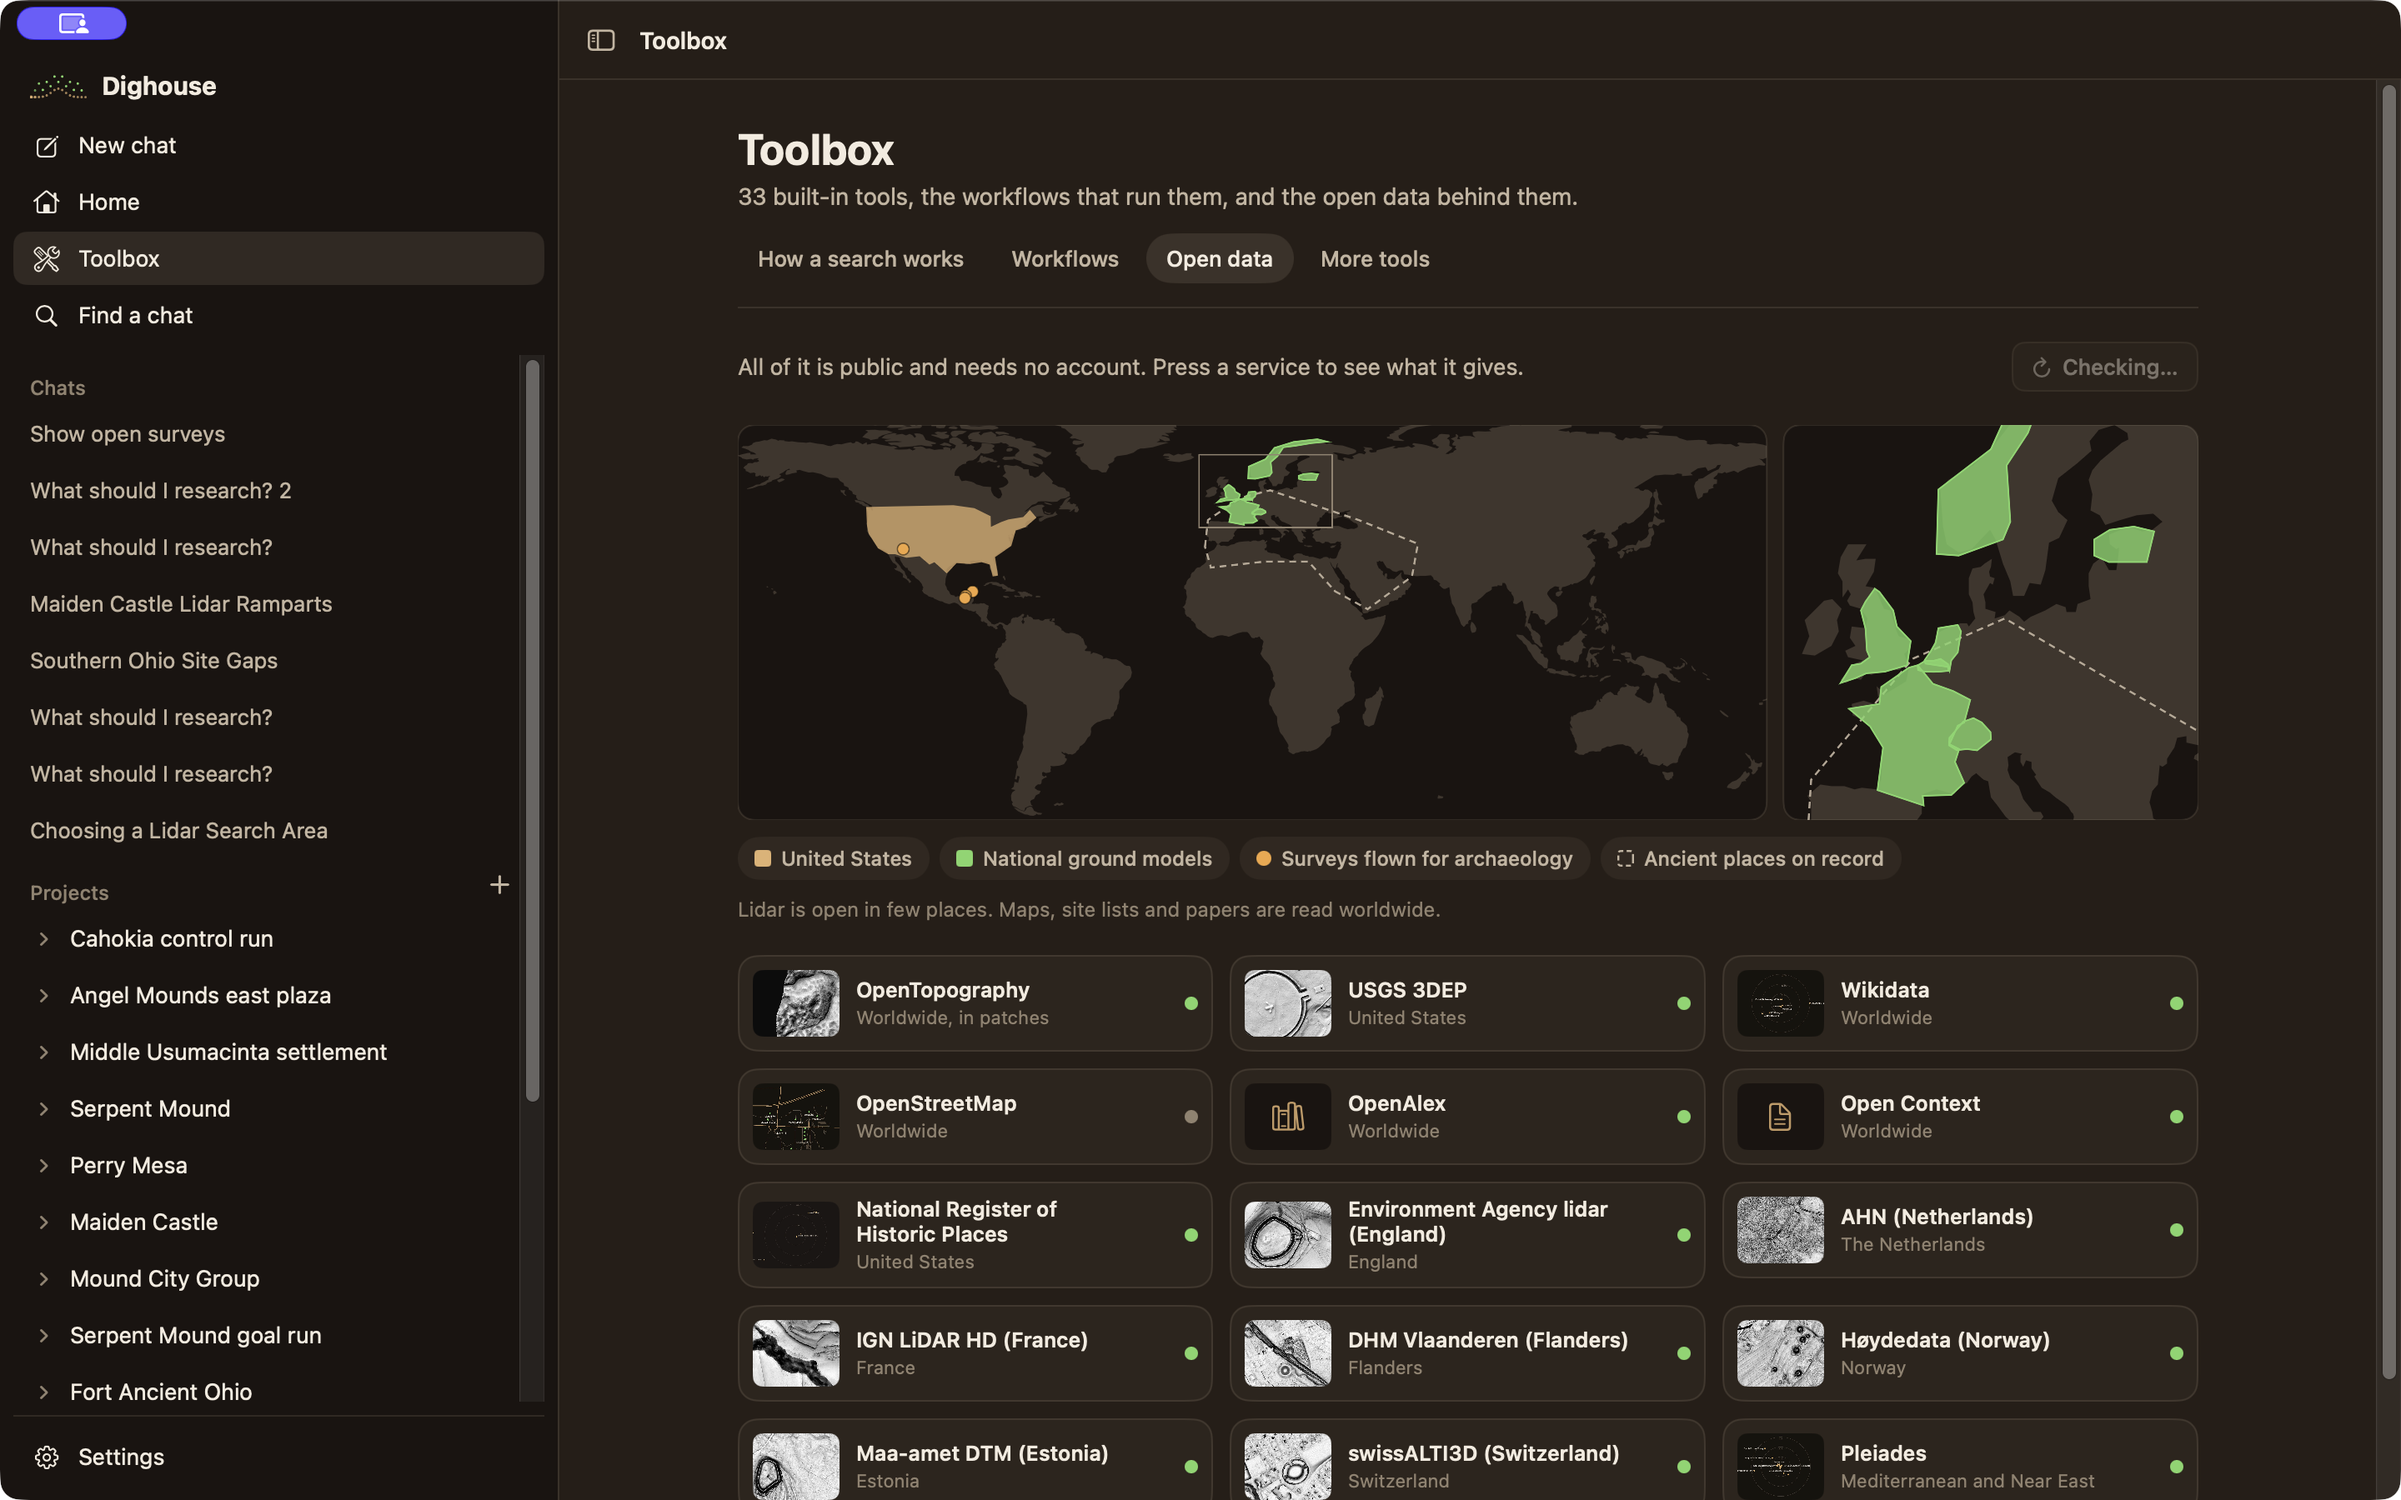
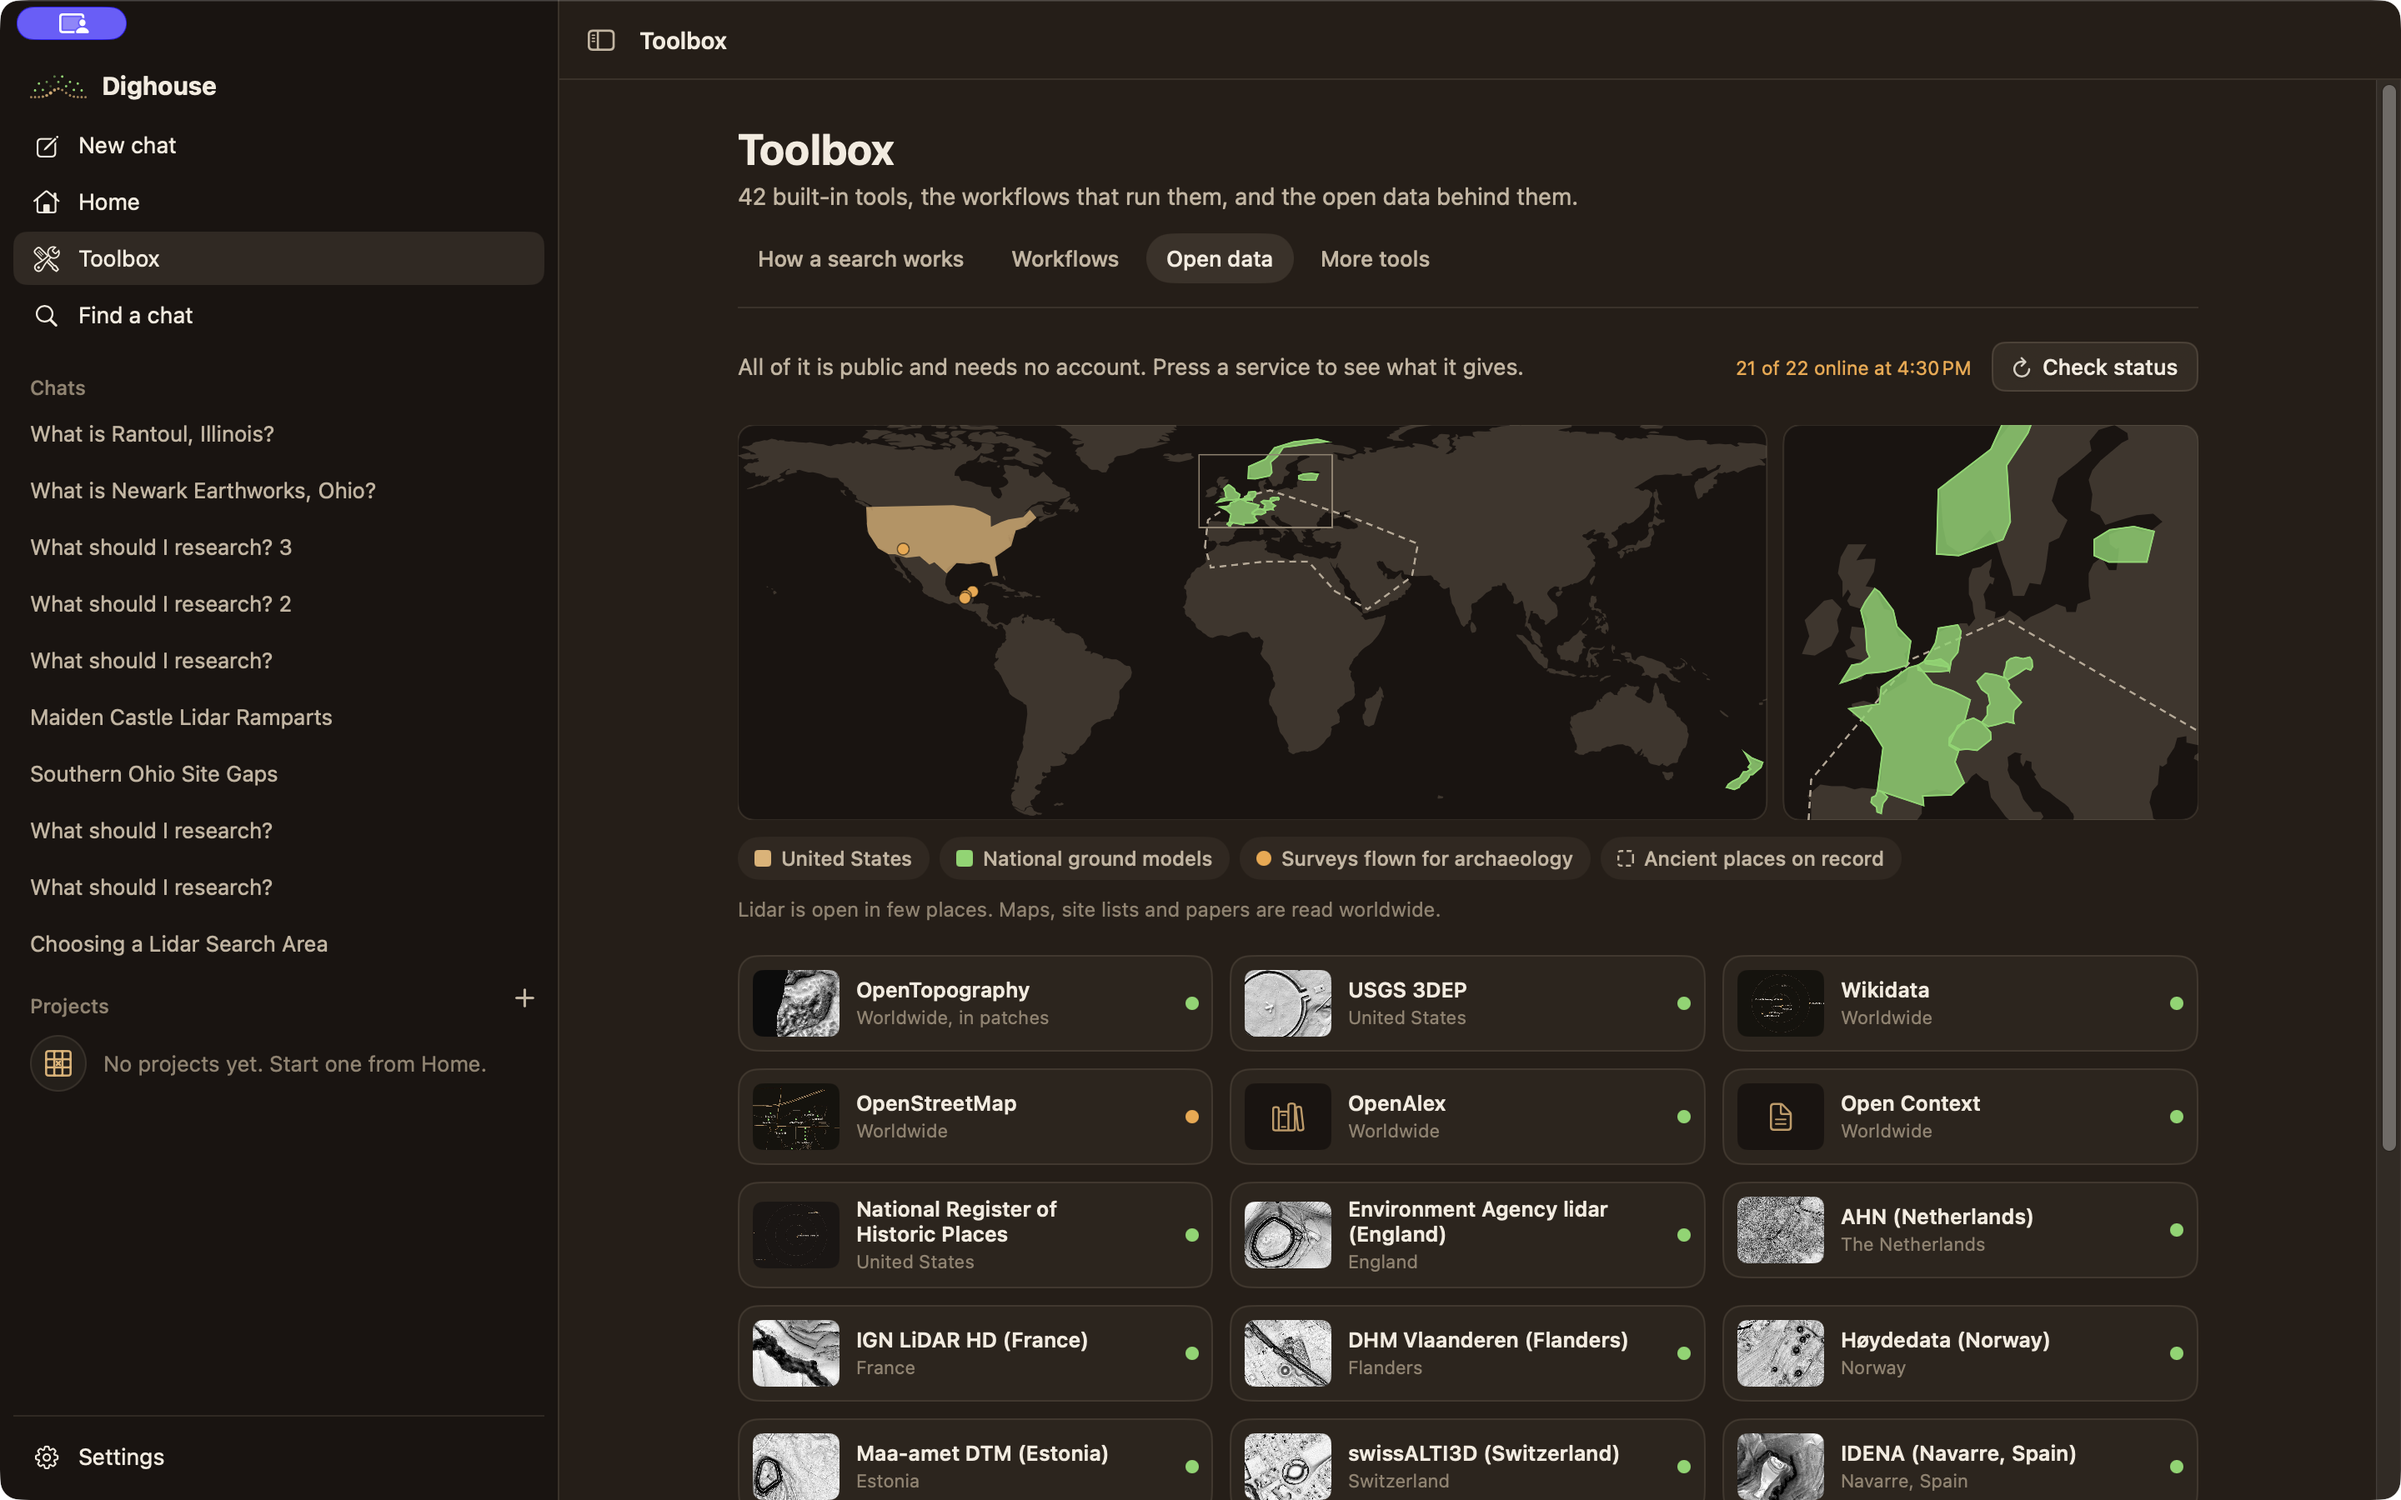
README: retake the Open data picture with the new regions (#51)

diff --git a/README.md b/README.md
@@ -121,7 +121,7 @@ Take the stages one at a time, or press **Find and report back** and the agent c
   </tr>
   <tr>
     <td width="50%"><img src="docs/images/toolbox.png" alt="The Toolbox on the Check stage of a real search at Cahokia: a line dragged across Monks Mound and the slice it cuts drawn beside it"><br><sub><b>Toolbox.</b> One real search at Cahokia in six stages, each a picture to press or drag. Here a line across Monks Mound draws its slice.</sub></td>
-    <td width="50%"><img src="docs/images/open-data.png" alt="The Open data tab: a map of the world showing where open lidar reaches, and a tile for each service with its status"><br><sub><b>Open data.</b> Where each kind of data reaches, and a page for every service the tools read.</sub></td>
+    <td width="50%"><img src="docs/images/open-data.png" alt="The Open data tab: a map of the world showing where open lidar reaches, and a tile for each service with its status"><br><sub><b>Open data.</b> Where each kind of data reaches, from the United States to New Zealand, and a page for every service the tools read. OpenStreetMap was partly online when this was taken.</sub></td>
   </tr>
   <tr>
     <td width="50%"><img src="docs/images/workflows.png" alt="The Workflows tab: three lanes for the agent, a second model and you, with the eight parts of a search in order"><br><sub><b>Workflows.</b> Who does each part of a search, and where the open project stands.</sub></td>

diff --git a/docs/WORLD_LOOP.md b/docs/WORLD_LOOP.md
@@ -233,3 +233,5 @@ The overview gained four enclosures and forts (Oberhaching 2, Lauske 1, Maiden C
 
 
 **Live tests:** `uv run pytest -m live` gives 7 passed and 2 failed on this Mac. The 2 query the Cahokia area, which an unfinished loop-6 blind test (~/dighouse-ui-test/blind-test-2026-11-16-2) still holds closed in the blind-test registry. With an empty cache (`DIGHOUSE_CACHE=$(mktemp -d)`) all 9 pass. That project was left as it is; finishing or removing it is Chris's call.
+
+**README picture:** Open data retaken at 1440 × 900 in Earth (window alone, `screencapture -l`): 42 tools, 21 of 22 services online (OpenStreetMap's Overpass partly online, as the caption says), the map with New Zealand and the European regions. Settings restored afterwards.
